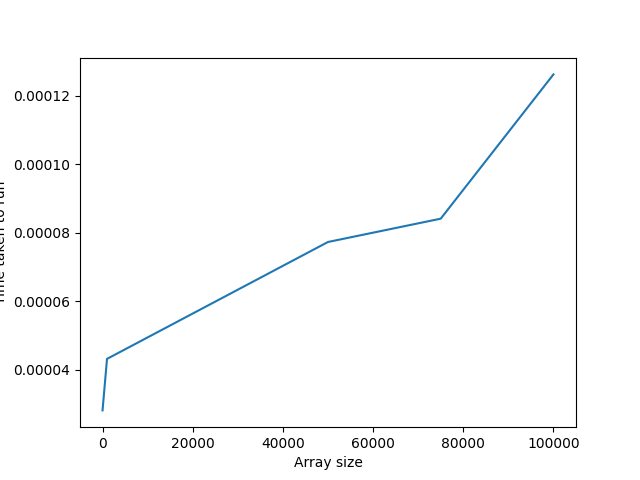
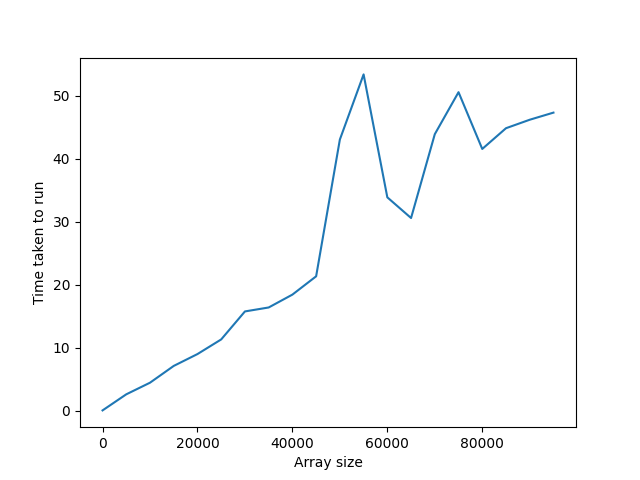
updated timing framework and reverse graphed

diff --git a/reverse.py b/reverse.py
@@ -1,6 +1,7 @@
 import matplotlib.pyplot as plt
 from timing_framework import calcRunTime
 import numpy as np
+import random
 # code snippet to be executed only once
 smallest_array = '''
 import numpy as np
@@ -32,11 +33,10 @@ import numpy as np
 a = np.random.randint(1000, size=100000)
 
 '''
-reverse_function = '''
-def reverse_data():
+def reverse_data(a):
     i=0
     size = len(a)
-    n=int(length/2)
+    n=int(size/2)
     while i < n:
         first = a[i]
         last = a[size-1-i]
@@ -44,20 +44,48 @@ def reverse_data():
         a[size-1-i] = first 
         i += 1
     return a
+
+arrSizes = list(range(1, 100000, 5000))
+print(arrSizes)
+idx = 0 
+times = [] 
+for size in arrSizes:
+    testArr = random.choices((range(1, 20)), k=size)
+    setupCode = f'''
+{testArr}
 '''
+    reverse_function = f'''
+{reverse_data(testArr)}
+'''
+    time = calcRunTime(setupCode, reverse_function)
+    print(f"Average time taken to run array {idx}: {time}")
+    idx += 1
+    times.append(time) 
+    print(times)
 
-a = calcRunTime(smallest_array, reverse_function)
-print(f"Average time taken to run smallest array: {a}")
-b = calcRunTime(smaller_array, reverse_function)
-print(f"Average time taken to run smaller array: {b}")
-e = calcRunTime(middle_array, reverse_function)
-print(f"Average time taken to run middle array: {e}")
-f = calcRunTime(bigger_array, reverse_function)
-print(f"Average time taken to run bigger array: {f}")
-g = calcRunTime(biggest_array, reverse_function)
-print(f"Average time taken to run biggest array: {g}")
+# a = np.random.randint(1000, size=10)
+# b = np.random.randint(1000, size=1000)
+# c = np.random.randint(1000, size=50000)
+# d = np.random.randint(1000, size=75000)
+# e = np.random.randint(1000, size=100000)
+# f = np.random.randint(1000, size=1000000)
+# arrays = [a, b, c, d, e, f]
+# idx = 0 
+# times = [] 
+# for x in arrays:
+#     setupCode = f'''
+# array = {x}
+# '''
+#     reverse_function = f'''
+# reverse_data({x})
+# '''
+#     time = calcRunTime(setupCode, reverse_function)
+#     print(f"Average time taken to run array {idx}: {time}")
+#     idx += 1
+#     times.append(time) 
+#     print(times)
 
-plt.plot([10, 1000, 50000, 75000, 100000], [a, b, e, f, g])
+plt.plot(arrSizes, times)
 
 plt.ylabel('Time taken to run')
 plt.xlabel('Array size')
@@ -65,20 +93,39 @@ plt.xlabel('Array size')
 plt.show() #display the graph
 plt.savefig("./graphed_results/reverse.png")  #savefig, don't show
 
-# def reverse_data():
-#     a = np.random.randint(1000, size=11)
-#     i=0
-#     size = len(a)
-#     n=int(length/2)
-#     print(a)
-#     while i < n:
-#         first = a[i]
-#         last = a[size-1-i]
-#         a[i] = last
-#         a[size-1-i] = first 
-#         i += 1
-#     print(a)
-# reverse_data()
-# it = np.nditer(np.random.randint(1000, size=10), flags=['f_index'])
-# for x in it:
-#   print(x, it.index, end=' ')
+# # a = calcRunTime(smallest_array, reverse_function)
+# # print(f"Average time taken to run smallest array: {a}")
+# # b = calcRunTime(smaller_array, reverse_function)
+# # print(f"Average time taken to run smaller array: {b}")
+# # e = calcRunTime(middle_array, reverse_function)
+# # print(f"Average time taken to run middle array: {e}")
+# # f = calcRunTime(bigger_array, reverse_function)
+# # print(f"Average time taken to run bigger array: {f}")
+# # g = calcRunTime(biggest_array, reverse_function)
+# # print(f"Average time taken to run biggest array: {g}")
+
+# # plt.plot([10, 1000, 50000, 75000, 100000], [a, b, e, f, g])
+
+# # plt.ylabel('Time taken to run')
+# # plt.xlabel('Array size')
+
+# # plt.show() #display the graph
+# # plt.savefig("./graphed_results/reverse.png")  #savefig, don't show
+
+# # def reverse_data():
+# #     a = np.random.randint(1000, size=11)
+# #     i=0
+# #     size = len(a)
+# #     n=int(length/2)
+# #     print(a)
+# #     while i < n:
+# #         first = a[i]
+# #         last = a[size-1-i]
+# #         a[i] = last
+# #         a[size-1-i] = first 
+# #         i += 1
+# #     print(a)
+# # reverse_data()
+# # it = np.nditer(np.random.randint(1000, size=10), flags=['f_index'])
+# # for x in it:
+# #   print(x, it.index, end=' ')

diff --git a/timing_framework.py b/timing_framework.py
@@ -1,22 +1,16 @@
-import numpy as np
 import timeit
-
-import time
 # from numpy import random, sort
 # import numpy as np
 
 def calcRunTime(setupCode, codeToRun):
     # number = 1 so it only runs the code once, but repeats 5000 times so I can take an average
-    a = np.random.randint(1000, size=10)
-    b = np.random.randint(1000, size=1000)
-    c = np.random.randint(1000, size=50000)
-    arrays = [a, b, c]
-    times = timeit.repeat(setup='pass', stmt=codeToRun,  repeat=5000, number = 1)
+    
+    runTimes = timeit.repeat(setup=setupCode, stmt=codeToRun,  repeat=5000, number=1)
     sum = 0
-    for i in times: 
+    for i in runTimes: 
         sum += i
     averageTime = sum / 5000
-    return averageTime * 100
+    return averageTime * 100000
    
 
 
